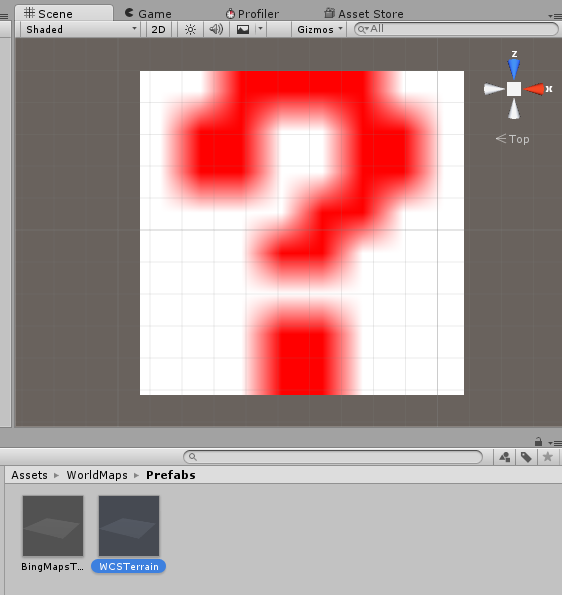
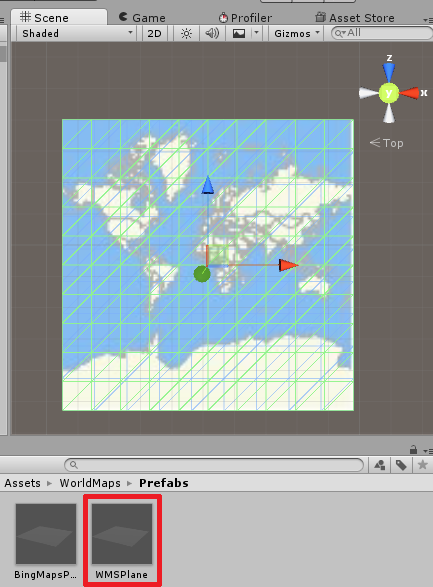
Updated WMS section in README.

diff --git a/README.md b/README.md
@@ -1,4 +1,4 @@
-# World maps
+# World maps
 
 ![Screenshot of World Maps](Images/world_maps_screenshot.png)
 
@@ -19,18 +19,18 @@ To take a look at the possibilities of this package. Just open the scene WorldMa
 
 #### Procedure
 
-1. Drag the prefab WorldMaps/Prefabs/WCSTerrain.prefab and drop it into the scene. A plane with a red question mark should appear.
+1. Drag the prefab WorldMaps/Prefabs/WCSTerrain.prefab and drop it into the scene.
 
   ![](Images/Tutorial/WMS/DroppingWMSPrefabIntoScene.png)
 
-2. With the plane selected, a WMSComponent inspector should appear on the right. 
+2. With the plane selected, a WMSTexture inspector should appear on the right. 
 
   ![](Images/Tutorial/WMS/WMSInspector.png)
 
 4. Edit the inspector fields to meet your requirements:
-  1. Select a server(\*) from the bookmarks list or enter a custom URL and wait a moment for the inspector to load the data from server. If any errors arises, it would be output to both the inspector and the console.
+  1. Select a server(\*) from the bookmarks list or by writting a custom URL and wait a moment for the inspector to load the data from server. If any errors arises, it will be output to both the inspector and the console.
   2. Under the "Layers" panel, mark the layer(s) you want to display. Every time a layer is marked / unmarked, the plane texture is updated from server.
-  3. Under the "Bounding box" panel, select a bounding box from the list provided by the server or insert a custom one. To see the changes in the scene view, the button "Update bounding box preview" must be pressed.
+  3. Under the "Bounding box" panel, select a bounding box from the list provided by the server or insert a custom one. Changes in bounding box doesn't update the plane texture automatically. Instead, the button "Update bounding box preview" must be pressed.
 
 5. Enjoy the new scene with your map!
 
